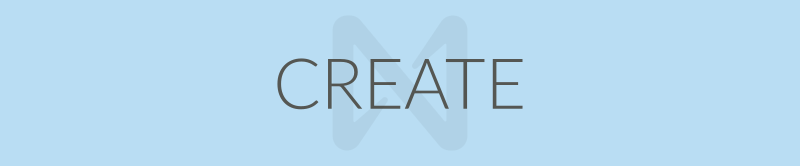
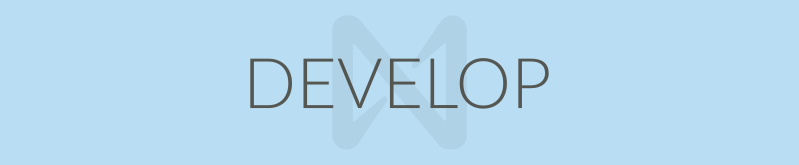
Renamed section

Changed region(s): [[0.3004, 0.3333, 0.6909, 0.6667]]

diff --git a/docs/index.md b/docs/index.md
@@ -45,7 +45,7 @@ Welcome! This is the starting point for all the documentation in NEAR. Whether y
             <img src={require("@site/static/docs/assets/home/create.png").default} alt="Develop" />
           </div>
           <div class="card__body">
-            <h4>Create</h4>
+            <h4>Develop</h4>
             <small>
               Find out how to develop your first smart contract from scratch!
             </small>
